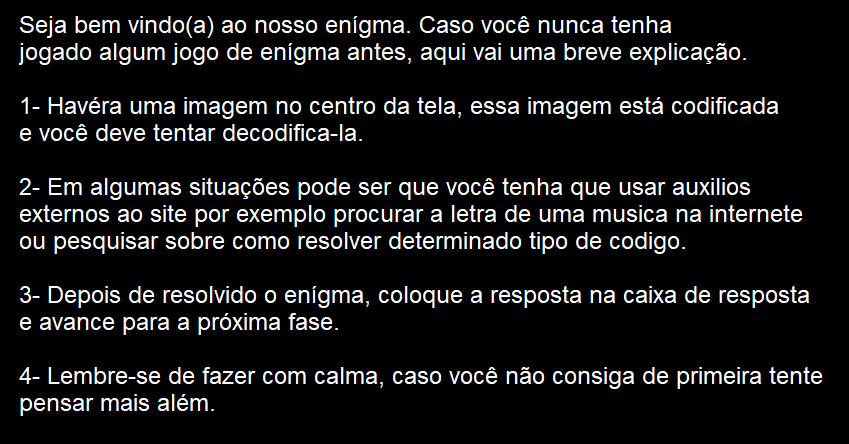
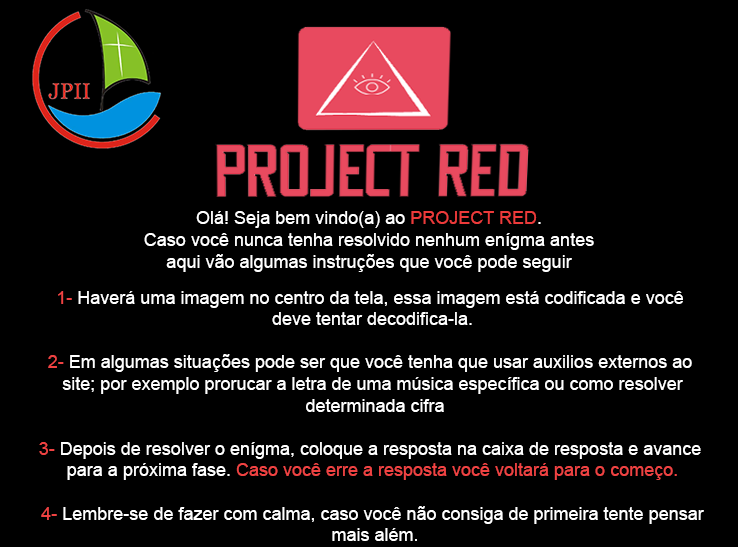
Add files via upload

Changed region(s): [[0.0, 0.0, 0.9661, 0.6149], [0.0, 0.7905, 0.9661, 0.9955], [0.0, 0.6441, 0.9661, 0.7613]]

diff --git a/script.js b/script.js
@@ -5,37 +5,45 @@ const phaseImage = document.getElementById('phase-image');
 const logoImage = document.getElementById('logo-image'); // Element for the logo image
 const answerInput = document.getElementById('answer-input');
 const answerButton = document.getElementById('answer-button');
+const congratulationsText = document.getElementById('congratulations-text'); // Element for congratulations text
 
 const answers = [
-    ["291"],
-    ["quinta-feira", "Quinta-feira", "quinta", "Quinta"],
-    ["pirâmide", "piramide", "Pirâmide"],
-    ["ferro", "Ferro"], 
-    ["video-game", "videogame", "Video-Game", "video game", "Video game", "Videogame"], 
-    ["6"],
-    ["antigo", "Antigo"], 
-    ["musica", "música", "Música", "música"],
-    ["agosto", "Agosto"], 
-    ["3 patos", "3"],
-    ["1889"],
-    ["esquerda","Esquerda"],
-    ["peúntimo", "penultimo", "Penúltimo", "Penultimo"]
+  ["291"],
+  ["quinta-feira", "Quinta-feira", "quinta", "Quinta"],
+  ["pirâmide", "piramide", "Pirâmide"],
+  ["ferro", "Ferro"], 
+  ["video-game", "videogame", "Video-Game", "video game", "Video game", "Videogame"], 
+  ["6"],
+  ["antigo", "Antigo"], 
+  ["musica", "música", "Música", "música"],
+  ["agosto", "Agosto"], 
+  ["3 patos", "3"],
+  ["1889"],
+  ["esquerda","Esquerda","left"],
+  ["penútimo", "penultimo", "Penúltimo", "Penultimo"],
+  ["arco-iris","arco íris","arco-íris","Arco-iris","Arco Íris","Arco-Íris"],
+  ["7"],
+  ["acabou","Acabou"],
 ];
 
 const phaseImages = [
-    "imagens/291.png",
-    "imagens/quinta-feira.png",
-    "imagens/piramide.png",
-    "imagens/ferro.png",
-    "imagens/video game.png",
-    "imagens/6.png",
-    "imagens/nokia.png",
-    "imagens/musica.png",
-    "imagens/agosto.png",
-    "imagens/3patos.png",
-    "imagens/sudoku fake.png",
-    "imagens/esquerda.png",
-    "imagens/penultimo",
+  "imagens/291.png",
+  "imagens/quinta-feira.png",
+  "imagens/piramide.png",
+  "imagens/ferro.png",
+  "imagens/video game.png",
+  "imagens/6.png",
+  "imagens/nokia.png",
+  "imagens/musica.png",
+  "imagens/agosto.png",
+  "imagens/3patos.png",
+  "imagens/sudoku fake.png",
+  "imagens/esquerda.png",
+  "imagens/penultimo.png",
+  "imagens/arco-iris.png",
+  "imagens/relógios.png",
+  "imagens/epihau.png",
+  "imagens/parabéns.png"
 ];
 
 const logoImagePath = "imagens/logocjp.png"; // Path to the logo image
@@ -48,6 +56,10 @@ startButton.addEventListener('click', () => {
   loadPhase(currentPhase);
 });
 
+// ... (código anterior)
+
+// ... (código anterior)
+
 answerButton.addEventListener('click', () => {
   const userAnswer = answerInput.value.toLowerCase();
   const correctAnswers = answers[currentPhase];
@@ -56,21 +68,32 @@ answerButton.addEventListener('click', () => {
     currentPhase++;
     if (currentPhase < phaseImages.length) {
       loadPhase(currentPhase);
+      showCongratulations(); // Show congratulations text
     } else {
-      // Você pode exibir uma mensagem de conclusão ou fazer algo aqui
+      showConclusionImage(); // Show conclusion image
     }
   } else {
     alert("Resposta incorreta! Você voltará para a fase 1.");
     currentPhase = 0;
     loadPhase(currentPhase);
+    hideCongratulations(); // Hide congratulations text
   }
 
   answerInput.value = '';
 });
 
+// ... (código posterior)
+;
+
+
 function loadPhase(phaseIndex) {
   phaseImage.src = phaseImages[phaseIndex];
   logoImage.src = logoImagePath; // Update the logo image source for each phase
+
+  gameContainer.classList.remove('last-phase'); // Remove a classe 'last-phase' para todas as fases
+  if (phaseIndex === phaseImages.length - 1) {
+    gameContainer.classList.add('last-phase'); // Adiciona a classe 'last-phase' apenas na última fase
+  }
 
   // Verifica se é a fase 11 e adiciona a classe apropriada
   if (phaseIndex === 10) {
@@ -79,3 +102,29 @@ function loadPhase(phaseIndex) {
     phaseImage.classList.remove('phase11');
   }
 }
+
+// ... (código posterior)
+
+
+const congratulationsTimeout = 3000; // 5 segundos
+
+function showCongratulations() {
+  congratulationsText.textContent = "Parabéns, você acertou! Espere pelo próximo enigma.";
+  setTimeout(hideCongratulations, congratulationsTimeout);
+}
+
+function hideCongratulations() {
+  congratulationsText.textContent = ""; // Limpar o texto da mensagem
+}
+
+function hideAnswerControls() {
+  answerInput.style.display = 'none';
+  answerButton.style.display = 'none';
+}
+
+function showConclusionImage() {
+  const conclusionContainer = document.getElementById('conclusion-container');
+  conclusionContainer.style.display = 'block';
+}
+
+

diff --git a/styles.css b/styles.css
@@ -1,95 +1,99 @@
 body {
-    background-color: black;
-    color: white;
-    font-family: Arial, sans-serif;
-    text-align: center;
-  }
-  
-  #intro-container, #game-container {
-    display: flex;
-    flex-direction: column;
-    align-items: center;
-    justify-content: center;
-    height: 100vh;
-  }
-  
-  #intro-container {
-    display: flex;
-    flex-direction: column;
-  }
-  
-  #intro-container img, #phase-image {
-    width: 600px;
-    height: 400px;
-    object-fit: center;
-    margin-bottom: 20px;
-  }
-  
-  button {
-    padding: 14px 28px; /* Aumente o tamanho dos botões */
-    font-size: 18px; /* Aumente o tamanho da fonte dos botões */
-    cursor: pointer;
-    background-color: green; /* Cor de fundo verde */
-    color: white;
-    border: none;
-    border-radius: 5px;
-    margin-top: 10px; /* Espaço entre os botões */
-  }
-  
-  input[type="text"] {
-    padding: 10px;
-    font-size: 20px; /* Aumente o tamanho da fonte da barra de resposta */
-    width: 40%; /* Faz a barra de resposta ocupar a largura disponível */
-    box-sizing: border-box;
-    margin-top: 10px; /* Espaço entre o texto e a barra de resposta */
-  }
-  
-  #game-container {
-    display: none;
-  }
-  
-  #logo-image {
-    position: absolute;
-    top: 10px;
-    left: 10px;
-    width: 250px;
-    height: auto;
-    z-index: 1;
-    margin-top: 10px; /* Espaço entre o logo e o botão de resposta */
-  }
-  /* Seu estilo existente */
-#response-text {
-    font-size: 18px; /* Ajuste o tamanho da fonte conforme necessário */
-    margin-top: 10px; /* Espaço entre o texto e a imagem */
-  }
-  
-  /* Seu estilo existente */
-#response-text {
-    font-size: 18px; /* Ajuste o tamanho da fonte conforme necessário */
-    margin-top: 10px; /* Espaço entre o texto e a imagem */
-  }
-  
-  #answer-button-container {
-    display: flex;
-    flex-direction: column;
-    align-items: center;
-    margin-top: 10px; /* Espaço entre a caixa de resposta e o container do botão */
-  }
-  /* Seu estilo existente */
+  background-color: black;
+  color: rgb(0, 0, 0);
+  font-family: Arial, sans-serif;
+  text-align: center;
+}
+
+#intro-container, #game-container {
+  display: flex;
+  flex-direction: column;
+  align-items: center;
+  justify-content: center;
+  height: 100vh;
+}
+
+#intro-container {
+  display: flex;
+  flex-direction: column;
+}
+
+#intro-container img, #phase-image {
+  width: 800px;
+  height: 400px;
+  object-fit: center;
+  margin-bottom: 20px;
+}
+
+button {
+  padding: 14px 28px; /* Aumente o tamanho dos botões */
+  font-size: 18px; /* Aumente o tamanho da fonte dos botões */
+  cursor: pointer;
+  background-color: rgb(231, 14, 43); /* Cor de fundo vermelha */
+  color: rgb(0, 0, 0);
+  border: none;
+  border-radius: 5px;
+  margin-top: 10px; /* Espaço entre os botões */
+}
+
+input[type="text"] {
+  padding: 10px;
+  font-size: 20px; /* Aumente o tamanho da fonte da barra de resposta */
+  width: 40%; /* Faz a barra de resposta ocupar a largura disponível */
+  box-sizing: border-box;
+  margin-top: 10px; /* Espaço entre o texto e a barra de resposta */
+}
+
+#game-container {
+  display: none;
+}
+
+#logo-image {
+  position: absolute;
+  top: 10px;
+  left: 10px;
+  width: 250px;
+  height: auto;
+  z-index: 1;
+  margin-top: 10px; /* Espaço entre o logo e o botão de resposta */
+}
+
 #response-text {
   font-size: 18px; /* Ajuste o tamanho da fonte conforme necessário */
   margin-top: 10px; /* Espaço entre o texto e a imagem */
 }
 
 #answer-button-container {
+ /* Estilos anteriores */
   display: flex;
   flex-direction: column;
   align-items: center;
   margin-top: 10px; /* Espaço entre a caixa de resposta e o container do botão */
 }
 
+/* Novo estilo para esconder caixa de resposta e botão de resposta na última fase */
+#game-container.last-phase #answer-input,
+#game-container.last-phase #answer-button {
+    display: none;
+}
+/* Estilos anteriores */
+
+
 /* Estilo específico para a imagem da fase 11 */
 #phase-image.phase11 {
   width: 800px; /* Largura desejada para a fase 11 */
   height: auto;
 }
+
+/* Estilos para a imagem de conclusão */
+#conclusion-container {
+  display: none;
+  text-align: center;
+  margin-top: 20px;
+}
+
+#conclusion-image {
+  width: 500px; /* Ajuste conforme necessário */
+  height: auto; /* Mantém a proporção original */
+}
+

diff --git a/index.html b/index.html
@@ -11,15 +11,20 @@
   <img src="imagens/introducao.png" alt="Introduction Image">
   <button id="start-button">Começar</button>
 </div>
-<div id="game-container">
+<div  id="game-container">
   <img id="phase-image" src="" alt="Enigma Image">
   <p id="response-text">Digite a resposta aqui:</p>
   <input type="text" id="answer-input">
   <div id="answer-button-container">
     <button id="answer-button">Responder</button>
     <img id="logo-image" src="imagens/logocjp.png" alt="Logo CJP">
+    <p id="congratulations-text"></p>
   </div>
 </div>
+<div id="conclusion-container">
+  <img id="conclusion-image" src="imagens/parabens.png" alt="Parabéns">
+</div>
+
 <script src="script.js"></script>
 </body>
 </html>
